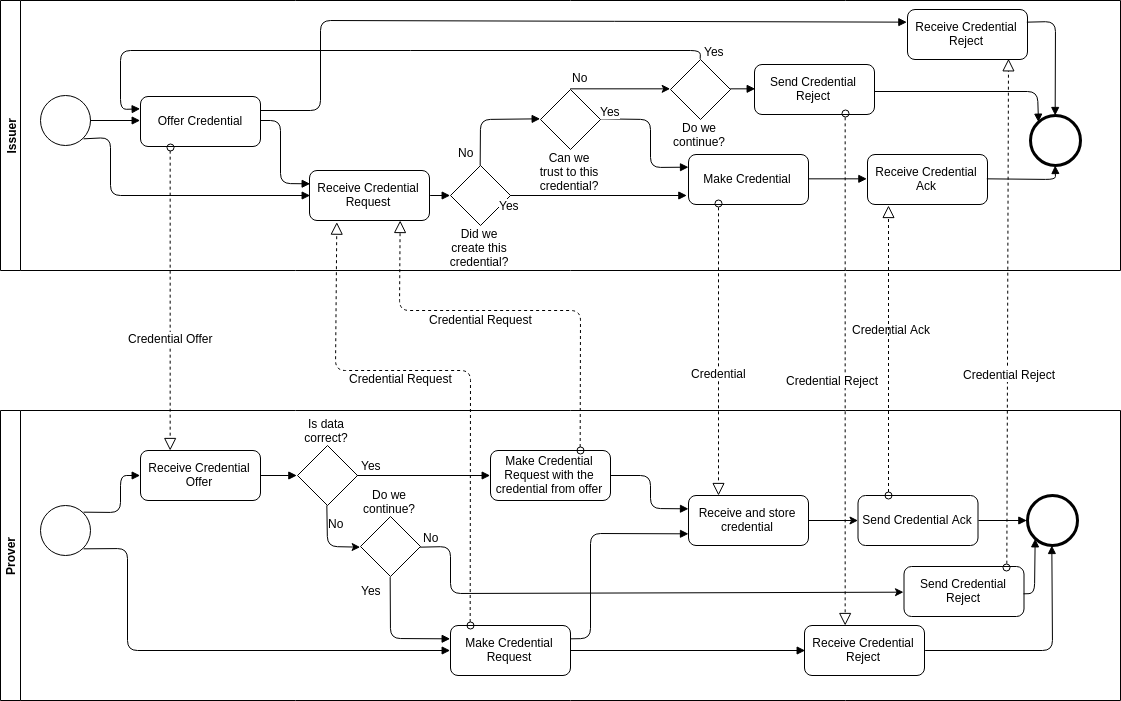
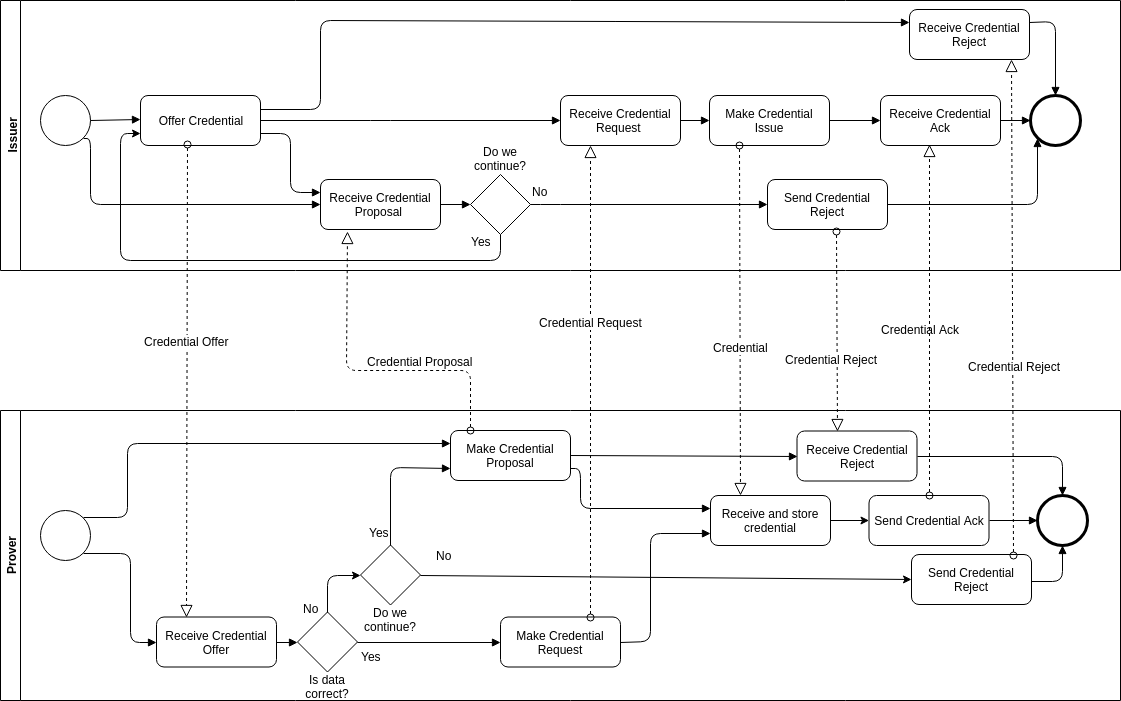
Add proposals messages

diff --git a/text/credential-exchange-message-family/README.md b/text/credential-exchange-message-family/README.md
@@ -26,7 +26,7 @@ The Credential Issuance Message Family consists of these messages:
 
 * Credential Offer
 * Credential Request
-* Credential
+* Credential Issue
 * Credential Ack
 * Credential Reject
 
@@ -69,6 +69,19 @@ Description of fields:
 }
 ```
 
+#### Credential Proposal
+
+This message is sent by Prover in response to Credential Offer when Prover wants some fixes or changes in credential offered by Issuer. Schema:
+```json
+{
+    "@type": "did:sov:BzCbsNYhMrjHiqZDTUASHg;spec/credential-issuance/1.0/credential-proposal",
+    "@id": "<uuid-credential-proposal>",
+    "credential_proposal": <json-ld object>
+}
+```
+
+Description of attributes:
+* `credential_proposal` -- a JSON-LD object that represents the credential data that Proverwants to receive. It should follow the schema of [Credential Preview](#credential-preview);
 
 #### Credential Request
 This message is sent in response to Credential Offer by Prover to give needed details for credential issuance. Schema:
@@ -78,10 +91,6 @@ This message is sent in response to Credential Offer by Prover to give needed de
     "@id": "<uuid-request>",
     "cred_def_id": "2hoqvcwupRTUNkXn6ArYzs:3:CL:1766",
     "comment": "some comment",
-    "credential_preview": <json-ld object>,
-    "payment": {
-        
-    },
     "~attach": [
         {
             "nickname": "libindy_cred_req",
@@ -97,8 +106,6 @@ This message is sent in response to Credential Offer by Prover to give needed de
 Description of Fields:
 * `cred_def_id` -- Credential Definition ID for requested credential
 * `comment` -- a field that provide some human readable information about this Credential Offer.
-* `credential_preview` -- an  object that represents the credential data that Prover wants to be issued. It is an optional field and not needed if Credential from Credential Offer message satisfies the Prover. It should follow the schema of [Credential Preview](#credential-preview).
-* `payment`
 * attachment `libindy_cred_req` -- an attachment with data that is needed to Issuer to generate a credential. It is base64 encoded. Here is an example of what lies inside, more information is in [Libindy API](https://github.com/hyperledger/indy-sdk/blob/57dcdae74164d1c7aa06f2cccecaae121cefac25/libindy/src/api/anoncreds.rs#L658):
 ```json
 {
@@ -111,7 +118,7 @@ Description of Fields:
 ```
 
 
-#### Credential
+#### Credential Issue
 This message contains the credential and sent in responce to Credential Request. Schema:
 ```json
 {
@@ -169,24 +176,6 @@ The main field here is `attributes`. It is an array of objects with three fields
 * `name` -- string with atribute name;
 * `mime-type` -- type of attribute
 * `value` -- value of credential
-
-#### Credential Reject
-This message can be sent by any side of the conversation to finish credential issuance without any credential created. Schema:
-```json
-{
-    "@type": "did:sov:BzCbsNYhMrjHiqZDTUASHg;spec/credential-issuance/1.0/reject",
-    "@id": "id"
-}
-```
-
-#### Credential Ack
-This message is sent by Prover as he confirms that he had received the credential and everything is correct. Schema:
-```json
-{
-    "@type": "did:sov:BzCbsNYhMrjHiqZDTUASHg;spec/credential-issuance/1.0/ack",
-    "@id": "id"
-}
-```
 
 ## Credential Presentation
 
@@ -246,7 +235,6 @@ This message is a response to a Presentation Request message and contains signed
     "@type": "did:sov:BzCbsNYhMrjHiqZDTUASHg;spec/credential-presentation/1.0/presentation",
     "@id": "<uuid-presentation>",
     "comment": "some comment",
-    "presentation_request_preview": <json-ld object>
     "~attach": [
         {
             "nickname": "libindy-presentation",
@@ -262,7 +250,6 @@ This message is a response to a Presentation Request message and contains signed
 Decription of fields:
 
 * `comment` -- a field that provide some human readable information about this Credential Offer.
-* `presentation_request_preview` -- an object that represents information that Prover is willing to disclose to Verifier. It is an optional field and can be dismissed if Prover is willing to satisfy the original proof request from Verifier.
 * attachment `libindy-presentation` -- actual presentation for presentation request, represented by base64-encoded json. Here is the schema of what lies in it and you can find more information in [Libindy API](https://github.com/hyperledger/indy-sdk/blob/57dcdae74164d1c7aa06f2cccecaae121cefac25/libindy/src/api/anoncreds.rs#L1404):
 ```json
 {
@@ -290,7 +277,21 @@ Decription of fields:
 }
 ```
 
-#### Presentation Request Preview
+#### Presentation Proposal
+
+This message is sent by Prover to offer another set of attributes for Verifier. Schema:
+
+```json
+{
+    "@type": "did:sov:BzCbsNYhMrjHiqZDTUASHg;spec/credential-presentation/1.0/presentation-proposal",
+    "@id": "<uuid-presentation-proposal>",
+    "presentation_proposal": <json-ld object>
+}
+```
+Description of attributes:
+* `presentation_proposal` -- a JSON-LD object that represents the presentation example that Prover wants to provide. It should follow the schema of [Presentation Preview](#presentation-preview);
+
+#### Presentation Preview
 
 This is again not a message but an inner object. It is used to negotiate a presentation request sent by Verifier. Schema:
 
